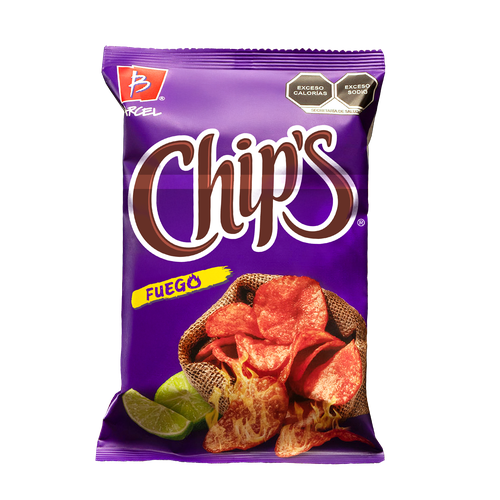
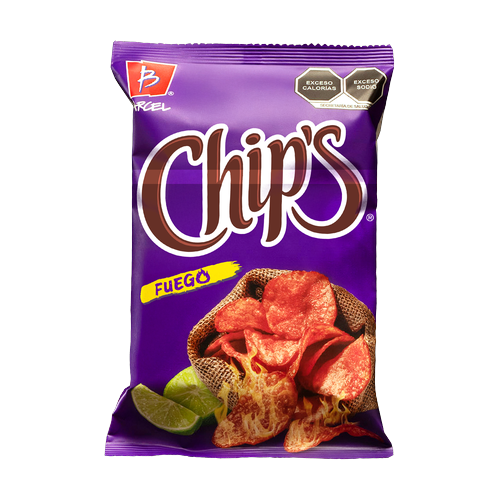
Ronda 97: normalizar tamaño de SKU, fuente Introhead en hero, renombrar sabores
1) Las 6 imagenes de sabor de Chip's se recortan/reescalan al mismo fillH (bbox alpha normalizado a 420px de 500px) para que se vean del mismo tamano en el slider. 2) Fuente Introhead (archivo del cliente, autohospedada como woff2 en public/fonts) aplicada al h1 del hero de Chip's via font-introhead. 3) Nombres de sabor actualizados segun las etiquetas de yute del cliente: Toque Maestro Al Parmesano -> Al Parmesano, Toque Maestro Sal y Pimienta -> A la Sal y Pimienta. El septimo nombre (Al cilantro y limon) no se agrega, sin foto de bolsa disponible, confirmado por el cliente.

Changed region(s): [[0.18, 0.06, 0.81, 0.93]]

diff --git a/src/data/brands.ts b/src/data/brands.ts
@@ -174,13 +174,21 @@ export const brands: Brand[] = [
     logo: "/logos/chips.png",
     logoHover: "/logos/chips-hover.png",
     heroImage: "/products/chips/hero-jalapeno.png",
+    // Ronda 97: el cliente mandó 7 etiquetas de yute con los nombres
+    // "oficiales" para el slider. De esas, 6 corresponden 1:1 a los 6
+    // sabores que ya existen aquí — se actualiza el texto exacto,
+    // sobre todo los dos "Toque Maestro" (pierden ese prefijo: la
+    // etiqueta real dice solo "AL PARMESANO" / "A LA SAL Y PIMIENTA",
+    // no el nombre completo de la sub-línea). La 7ma etiqueta ("Al
+    // cilantro y limón") no tiene sabor ni foto de bolsa existente —
+    // el cliente confirmó explícitamente NO incluirla todavía.
     flavors: [
       { name: "Jalapeño", image: "/products/chips/flavors/jalapeno.png" },
       { name: "Fuego", image: "/products/chips/flavors/fuego.png" },
       { name: "Sal", image: "/products/chips/flavors/sal.png" },
       { name: "Crema y Especias", image: "/products/chips/flavors/crema-especias.png" },
-      { name: "Toque Maestro Al Parmesano", image: "/products/chips/flavors/tm-parmesano.png" },
-      { name: "Toque Maestro Sal y Pimienta", image: "/products/chips/flavors/tm-sal-pimienta.png" },
+      { name: "Al Parmesano", image: "/products/chips/flavors/tm-parmesano.png" },
+      { name: "A la Sal y Pimienta", image: "/products/chips/flavors/tm-sal-pimienta.png" },
     ],
   },
   {

diff --git a/src/app/globals.css b/src/app/globals.css
@@ -27,6 +27,25 @@
   --font-takis-display: "veneer", "Anton", ui-sans-serif, system-ui, sans-serif;
   --font-takis-body: "acumin-pro", "Raleway", ui-sans-serif, system-ui, sans-serif;
   --font-takis-mark: "Permanent Marker", ui-sans-serif, system-ui, sans-serif; /* sustituto de TAKIS® Font — sin licencia real disponible */
+
+  /* Ronda 97: "Introhead" para el título del contenedor del hero de Chip's
+     (h1 "Antojo picosito"). A diferencia de Teko/Veneer/Acumin Pro (CDN de
+     Google Fonts / kit de Adobe Typekit), esta fuente NO está disponible
+     en ningún servicio — el cliente compartió el archivo .otf directo
+     (nombre interno real: "Intro Head H Base"), así que se autohospeda
+     igual que cualquier asset propio: conversión a .woff2 (56KB, sin
+     dependencias de red externas) en public/fonts/, cargada vía @font-face
+     aquí abajo. Solo se usa en el título del hero de Chip's — el resto del
+     sitio no la toca. */
+  --font-introhead: "IntroHeadH", ui-sans-serif, system-ui, sans-serif;
+}
+
+@font-face {
+  font-family: "IntroHeadH";
+  src: url("/fonts/IntroHeadH-Base.woff2") format("woff2");
+  font-weight: 400;
+  font-style: normal;
+  font-display: swap;
 }
 
 html {

diff --git a/src/components/ChipsHero.tsx b/src/components/ChipsHero.tsx
@@ -121,7 +121,7 @@ export default function ChipsHero({ brand }: { brand: Brand }) {
           >
             <span aria-hidden>←</span> Volver al inicio
           </Link>
-          <h1 className="font-teko text-5xl font-bold uppercase leading-[0.9] text-white">
+          <h1 className="font-introhead text-5xl font-bold uppercase leading-[0.9] text-white">
             {brand.tagline}
           </h1>
           <p className="mt-4 max-w-sm font-body text-base font-medium leading-relaxed text-white/80">

diff --git a/tailwind.config.ts b/tailwind.config.ts
@@ -111,6 +111,9 @@ const config: Config = {
         takisDisplay: ["var(--font-takis-display)", "sans-serif"],
         takisBody: ["var(--font-takis-body)", "sans-serif"],
         takisMark: ["var(--font-takis-mark)", "sans-serif"],
+        // Ronda 97: título del hero de Chip's — ver nota completa en
+        // globals.css (@font-face autohospedada, archivo del cliente).
+        introhead: ["var(--font-introhead)", "sans-serif"],
       },
       keyframes: {
         marquee: {
